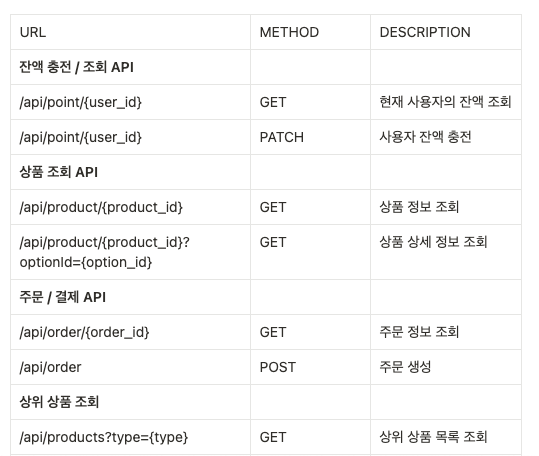
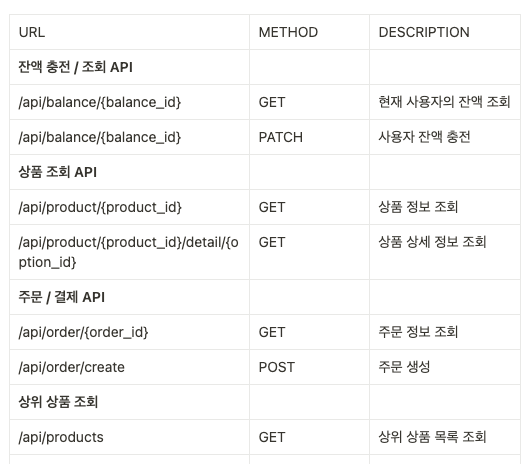
READ.md Week03 작업 정리

diff --git a/README.md b/README.md
@@ -1,0 +1,26 @@
+Task 5 시나리오 분석 및 작업 계획
+
+[프로젝트 Milestone](https://github.com/users/samComeIt/projects/2)
+
+시나리오 요구사항 분석 자료(시퀀스 다이어그램)
+
+
+![sequenceDiagram/balance/PatchPointAPI.png](sequenceDiagram/balance/PatchPointAPI.png)
+![sequenceDiagram/order/PostOrderAPI.png](sequenceDiagram/order/PostOrderAPI.png)
+
+시퀀스 다이어그램 더 보기(상품/주문/잔액 조회 등)
+- [상품 조회](sequenceDiagram/product/GetProductAPI.png)
+- [상품 상세 조회](sequenceDiagram/product/GetProductDetailAPI.png)
+- [상위 상품 목록 조회](sequenceDiagram/product/GetProductListAPI.png)
+- [주문 조회](sequenceDiagram/order/GetOrderAPI.png)
+- [주문 결제](sequenceDiagram/order/PostOrderAPI.png)
+- [잔액 조회](sequenceDiagram/balance/GetBalanceAPI.png)
+- [잔액 충전](sequenceDiagram/balance/PatchPointAPI.png)
+
+Taks 6 시나리오 설계 자료 제출
+
+이커머스 ERD
+![erd.png](erd.png)
+
+API 명세
+![API_Spec.png](API_Spec.png)
